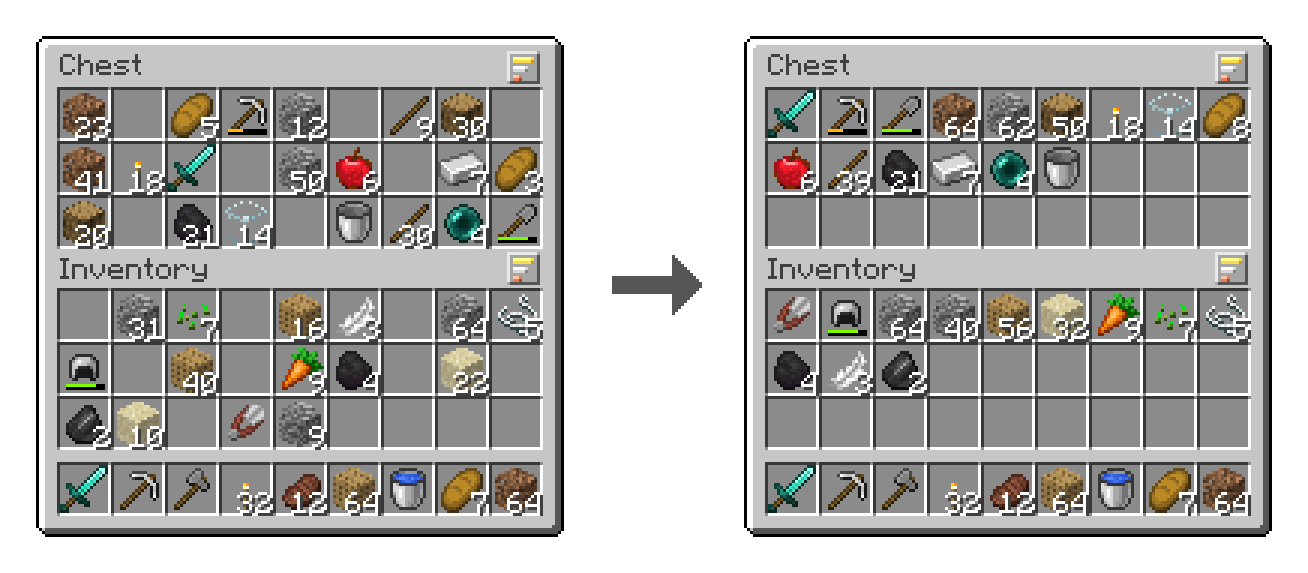
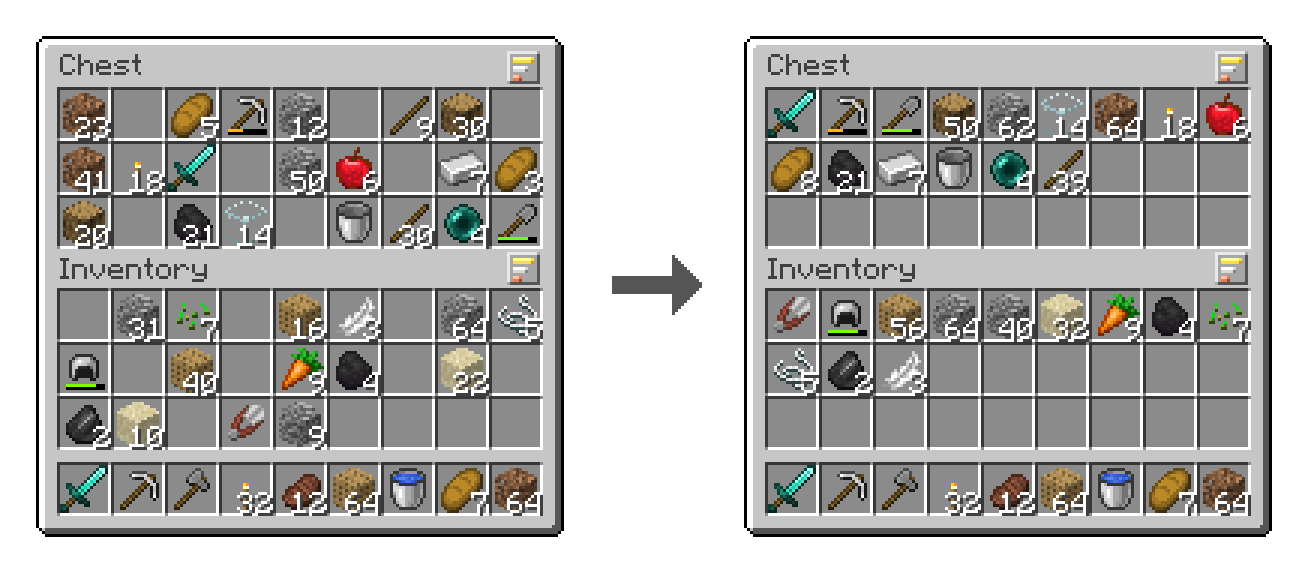
Tidy Nest 1.1.0: like items stay together
Claude-Session: https://claude.ai/code/session_01PQ9jNEcseDXHTXKpw1SUE9

diff --git a/README.md b/README.md
@@ -15,7 +15,7 @@ Open a chest or your inventory and you'll see a small button with three bars abo
 * **Stacks are merged.** Three half stacks of cobblestone become one full stack and a bit.
 * **Gear comes first**, best first. Weapons and tools are grouped by type (swords, axes, pickaxes, shovels, hoes, bows...), with the best material first and the least worn first. Armour follows, head to feet, then other gear such as shields.
 * **Then blocks, food and potions, materials, other items, and storage** (shulker boxes and bundles) last.
-* **What you have most of comes first** within each group, and each item's biggest stack comes before its smallest.
+* **Like items stay together.** Each wood type together (sapling, leaves, log, planks, stairs, door...), all glass and panes in every colour, all dyes, a stone with its stairs and slabs, an ore with its ingots and nuggets. Families follow the creative menu's order, and each item's biggest stack comes before its smallest.
 * **Your hotbar, armour and off hand never move.** The inventory button sorts the 27 storage slots only, so what you hold and wear stays where you put it.
 * **Shortcuts:** double-click an empty slot (with nothing in your hand) or middle-click any slot to sort its grid without reaching for the button. Middle-click works in survival; in creative it still copies items. Prefer a keyboard key? Set *Sort the area under the mouse* in Controls → Inventory.
 * **The same items always end up in the same order**, so things are where you expect them, and sorting a tidy chest changes nothing.

diff --git a/CHANGELOG.md b/CHANGELOG.md
@@ -2,6 +2,15 @@
 
 All notable changes to Tidy Nest. It works on any server: installing it on the server too is optional.
 
+## 1.1.0 (2026-10-12)
+
+**Changed**
+- **Like items now stay together, and every sort looks the same.** Inside each group (blocks, food and potions, materials...) items are kept in families: each wood type together (sapling, leaves, log, planks, stairs, fence, door...), all glass and glass panes in every colour, all dyes, a stone with its stairs, slabs and walls, a metal's ore, raw metal, ingot, nugget and block, wool with carpets, all terracotta. Families and their items follow the creative menu's order, so a chest with the same things always comes out the same way.
+- Within a family, the biggest stack still comes first. "The item you have most of first" is gone: it split families apart.
+- Gear (weapons, tools and armour) sorts as before: by type, best material and least worn first.
+
+Install it in your game; on the server it's optional.
+
 ## 1.0.0 (2026-10-12)
 
 First release.
